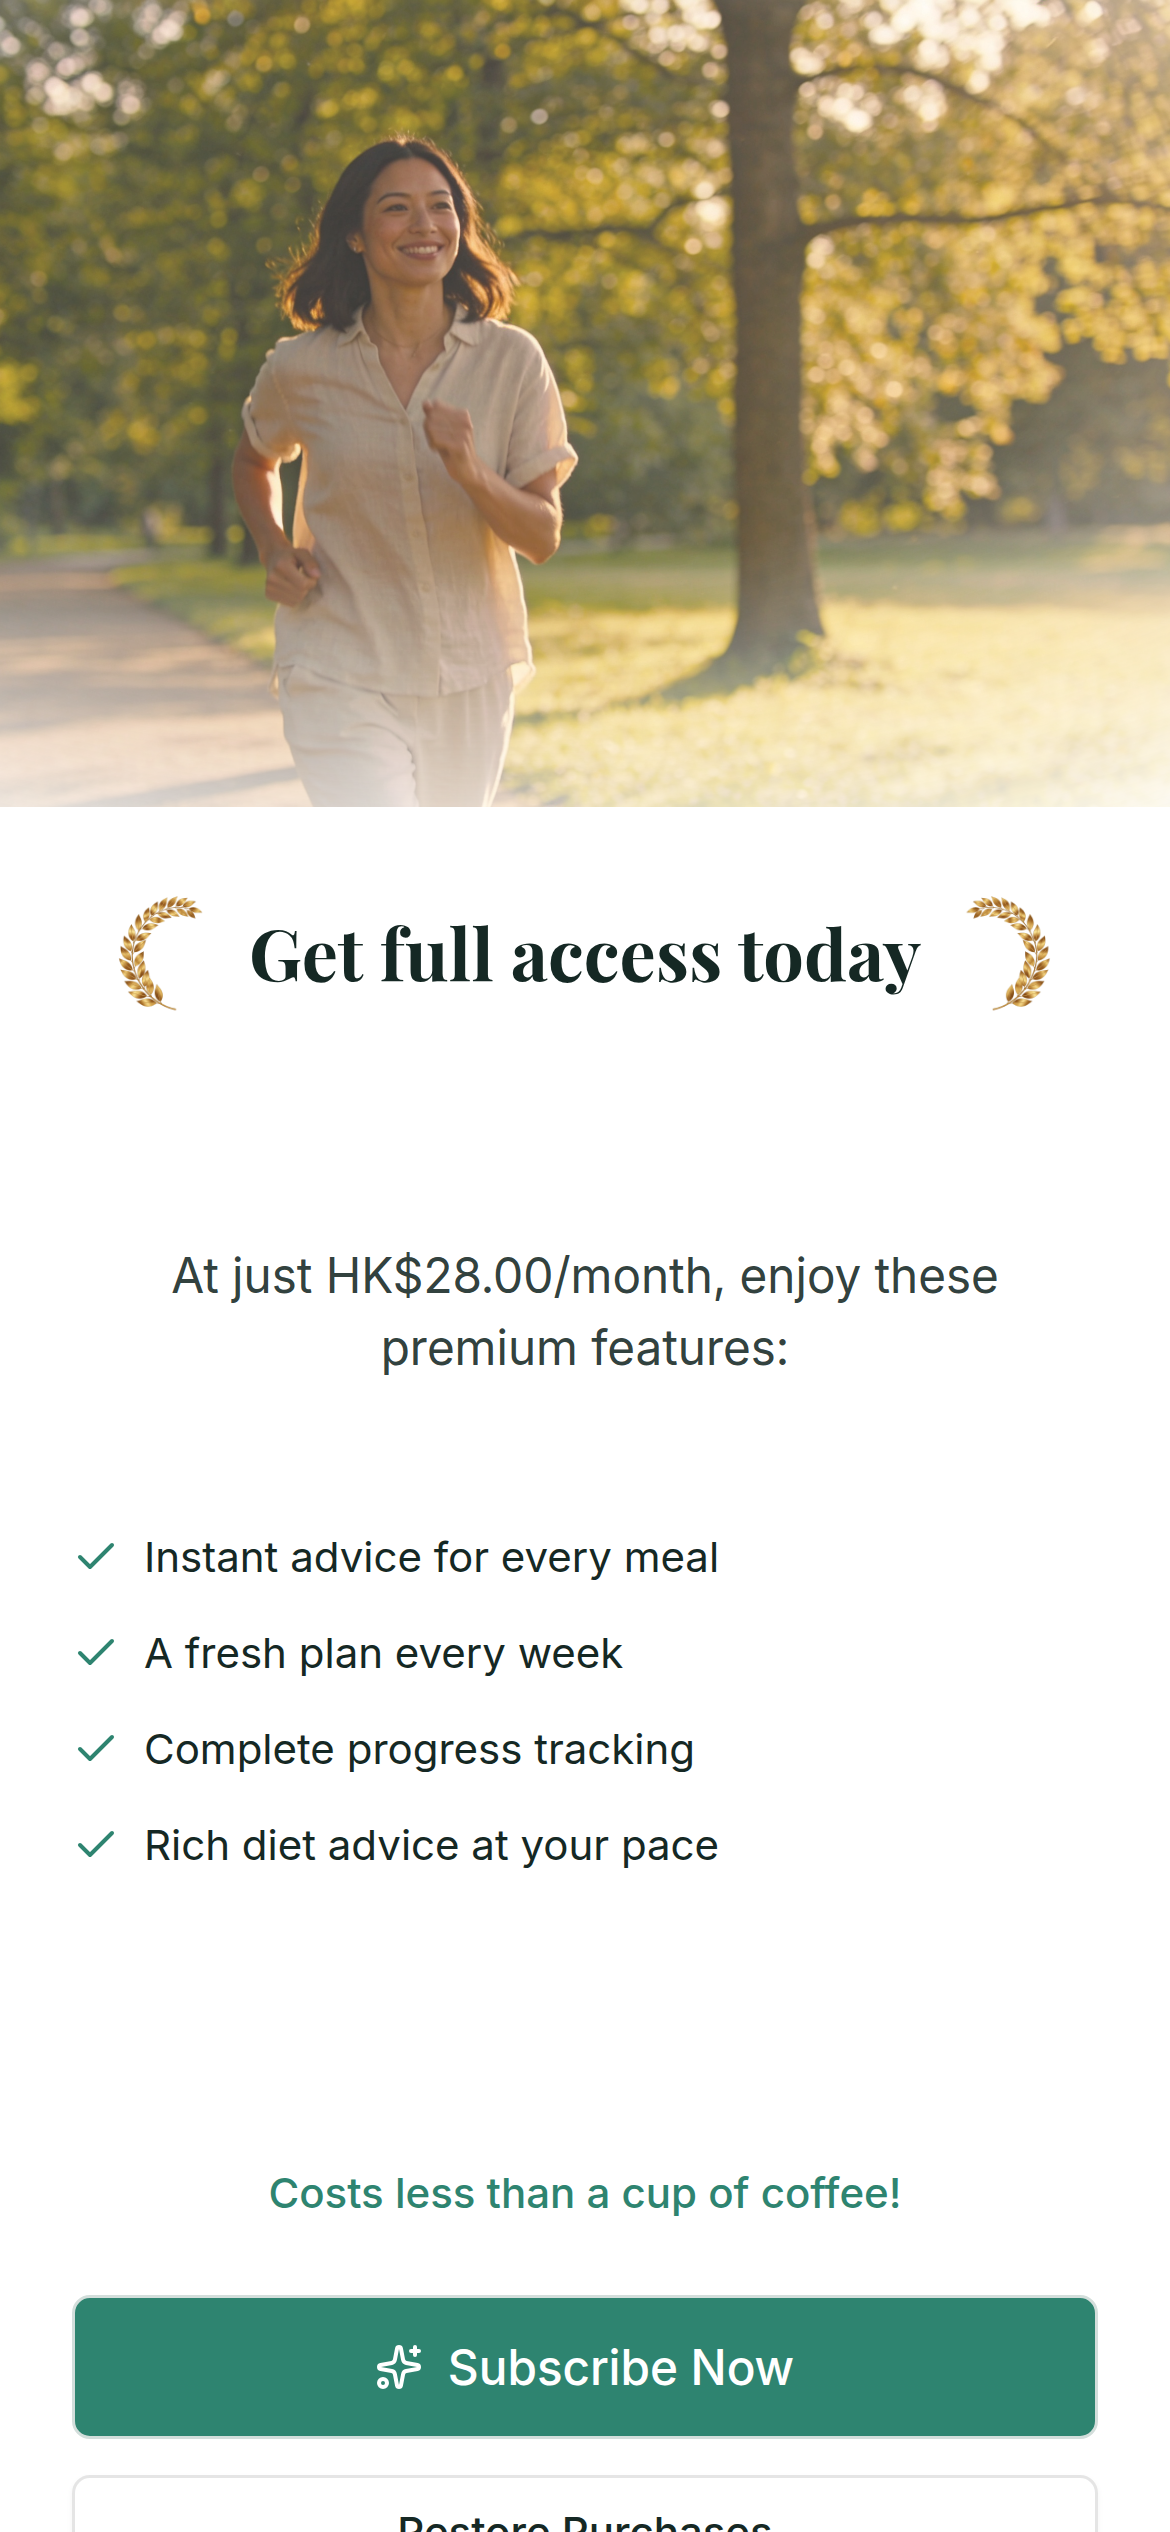
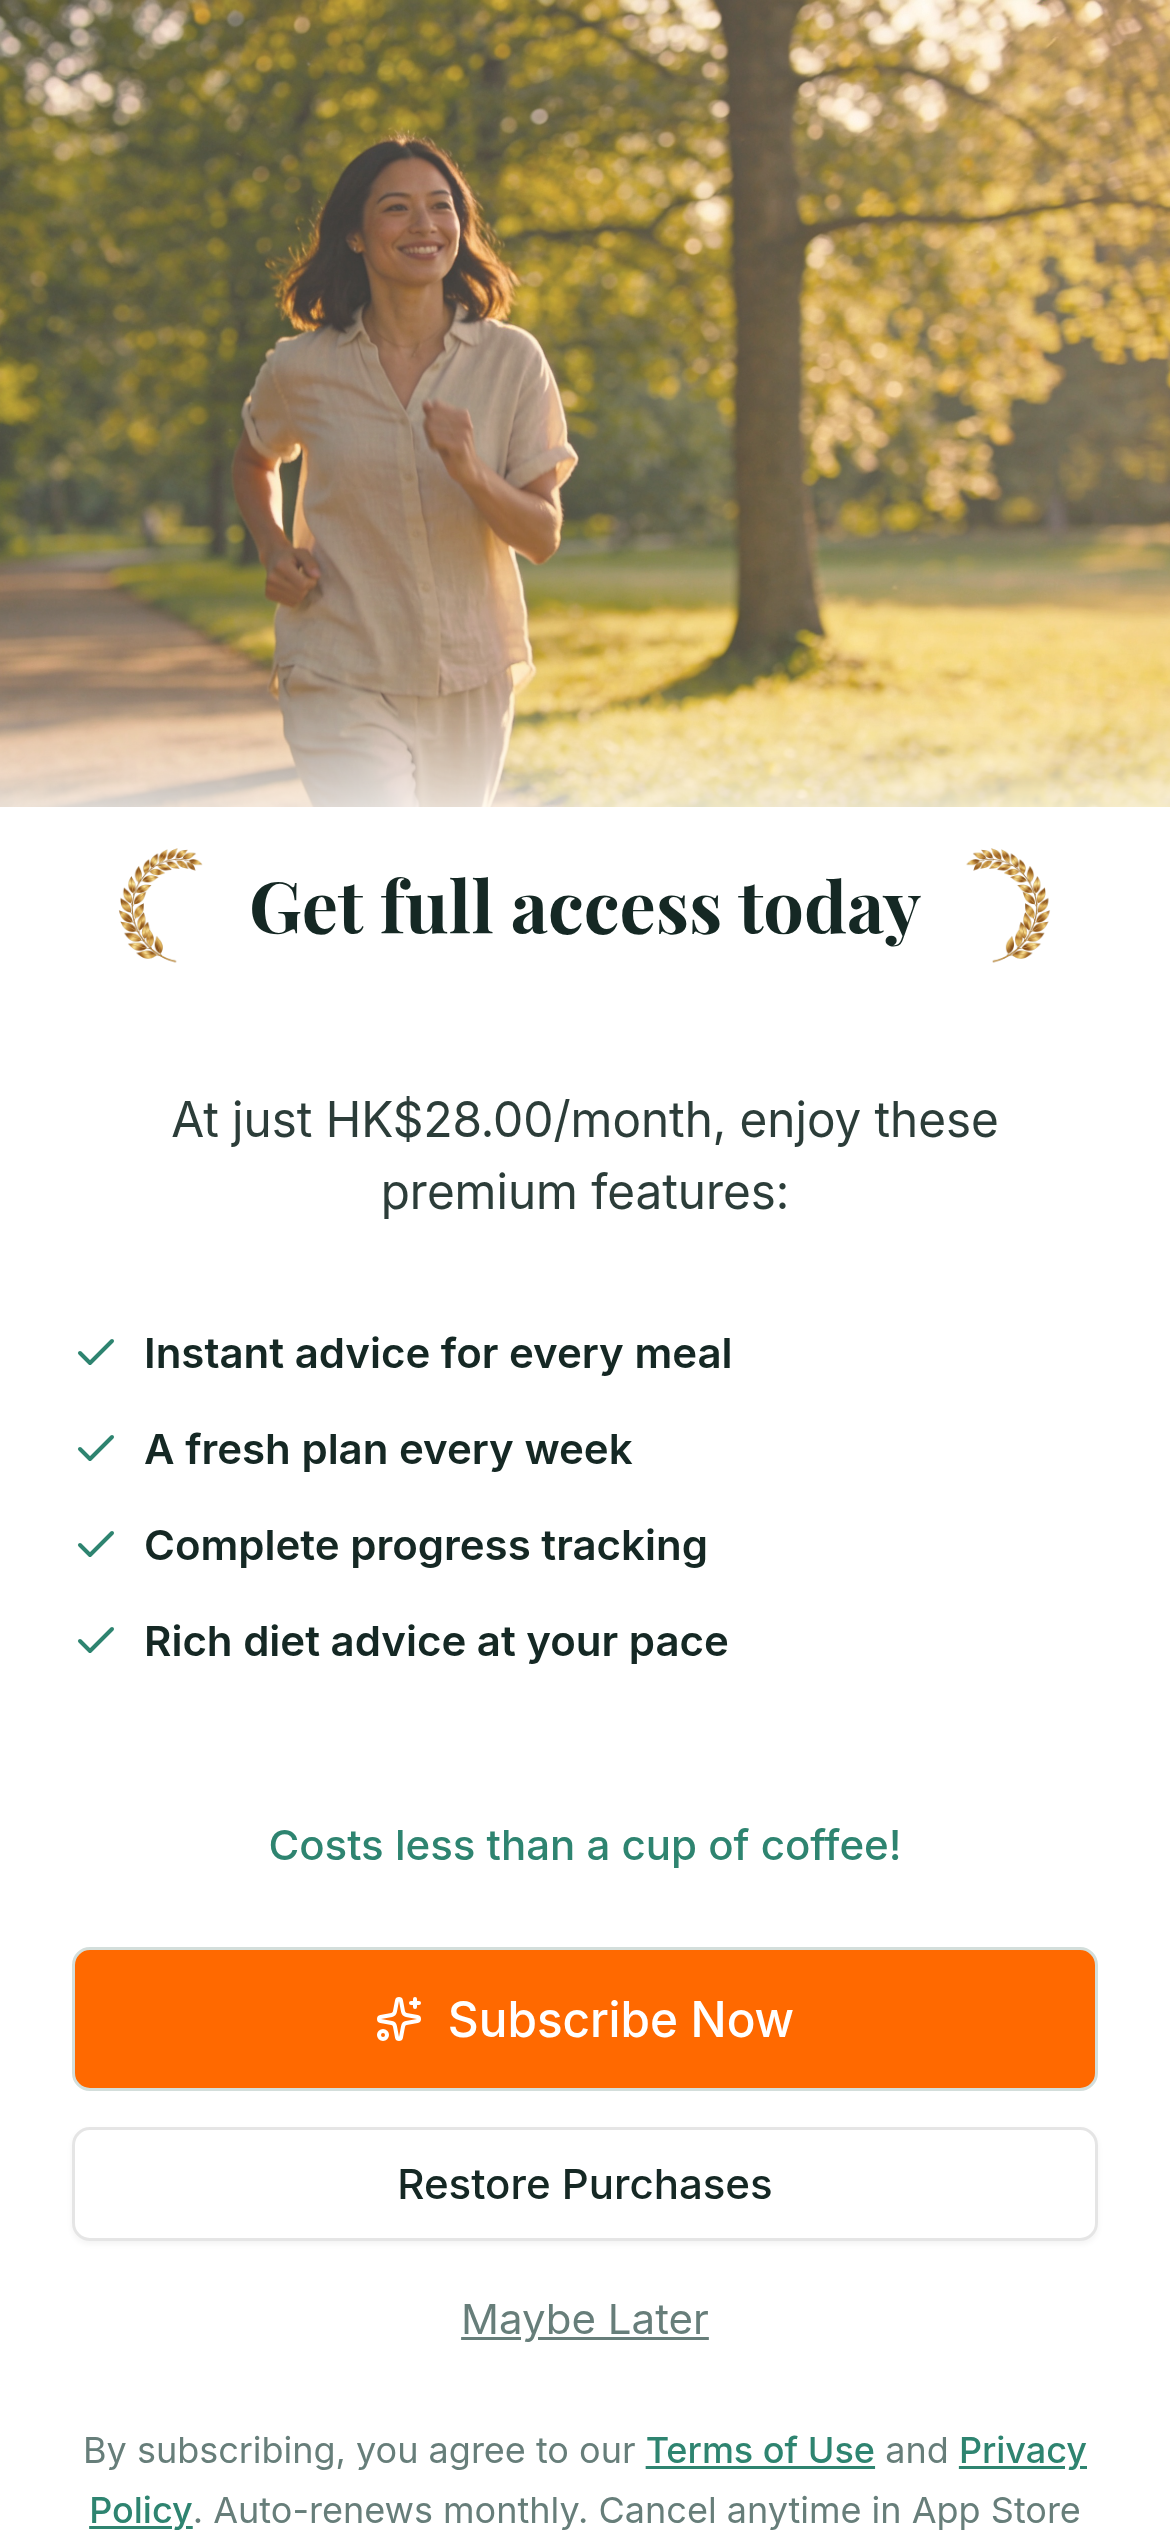
Refine paywall design with tighter spacing and new visual effects
Update paywall modal with adjusted vertical spacing, bolded feature text, a feathered card top effect, and an orange subscribe button.

Replit-Commit-Author: Agent
Replit-Commit-Session-Id: 5fb3db13-5617-42f7-b4ec-a9b90de9063e
Replit-Commit-Checkpoint-Type: full_checkpoint
Replit-Commit-Event-Id: 839a2996-6980-4834-93fd-844d8b398b68
Replit-Commit-Screenshot-Url: https://storage.googleapis.com/screenshot-production-us-central1/5322b358-f4bd-4c78-9be1-d8e103e57e4b/5fb3db13-5617-42f7-b4ec-a9b90de9063e/5LPq0w9
Replit-Helium-Checkpoint-Created: true

diff --git a/client/src/components/paywall-modal.tsx b/client/src/components/paywall-modal.tsx
@@ -121,18 +121,27 @@ export default function PaywallModal({ open, onClose, onPurchaseSuccess, lockApp
               alt=""
               data-testid="paywall-hero-image"
               aria-hidden="true"
-              className="w-[140%] max-w-none object-cover ml-[-20%] mb-6 pointer-events-none select-none"
+              className="w-[140%] max-w-none object-cover ml-[-20%] pointer-events-none select-none"
               style={{
                 aspectRatio: "16 / 9",
                 opacity: 0.8,
-                WebkitMaskImage:
-                  "radial-gradient(ellipse 95% 80% at 50% 35%, #000 45%, rgba(0,0,0,0.6) 70%, transparent 100%)",
-                maskImage:
-                  "radial-gradient(ellipse 95% 80% at 50% 35%, #000 45%, rgba(0,0,0,0.6) 70%, transparent 100%)",
               }}
             />
 
-            <div className="flex items-center justify-center gap-3 w-full">
+            <div
+              className="w-full flex flex-col items-center mt-[-40px] relative z-10 px-6"
+              style={{
+                background: "hsl(var(--popover))",
+                WebkitMaskImage:
+                  "linear-gradient(to bottom, transparent 0px, #000 56px)",
+                maskImage:
+                  "linear-gradient(to bottom, transparent 0px, #000 56px)",
+                marginLeft: "-1.5rem",
+                marginRight: "-1.5rem",
+                width: "calc(100% + 3rem)",
+              }}
+            >
+            <div className="flex items-center justify-center gap-3 w-full pt-12">
               <img
                 src={laurelImg}
                 alt=""
@@ -158,23 +167,23 @@ export default function PaywallModal({ open, onClose, onPurchaseSuccess, lockApp
             </div>
 
             <p
-              className="text-base text-foreground/90 text-center mt-[72px]"
+              className="text-base text-foreground/90 text-center mt-[36px]"
               data-testid="text-paywall-headline"
             >
               {headline}
             </p>
 
-            <div className="w-full flex flex-col gap-3 text-left text-sm mt-12">
+            <div className="w-full flex flex-col gap-3 text-left text-sm mt-8">
               {["feature_plans", "feature_snap", "feature_roadmap", "feature_insights"].map((key) => (
                 <div key={key} className="flex items-start gap-2">
                   <Check className="w-4 h-4 text-primary mt-0.5 shrink-0" />
-                  <span>{t(`paywall.${key}`)}</span>
+                  <span className="font-semibold">{t(`paywall.${key}`)}</span>
                 </div>
               ))}
             </div>
 
             <p
-              className="text-sm font-medium text-primary text-center mt-[96px]"
+              className="text-sm font-medium text-primary text-center mt-[48px]"
               data-testid="text-paywall-cup-of-coffee"
             >
               {t("paywall.cup_of_coffee")}
@@ -189,7 +198,7 @@ export default function PaywallModal({ open, onClose, onPurchaseSuccess, lockApp
             {isNative ? (
               <div className="w-full flex flex-col gap-3 mt-6">
                 <Button
-                  className="w-full h-12 text-base gap-2"
+                  className="w-full h-12 text-base gap-2 bg-orange-500 hover:bg-orange-600 text-white"
                   onClick={handlePurchase}
                   disabled={purchasing || restoring}
                   data-testid="button-paywall-subscribe"
@@ -263,6 +272,7 @@ export default function PaywallModal({ open, onClose, onPurchaseSuccess, lockApp
                 }}
               />
             </p>
+            </div>
           </div>
         </motion.div>
       )}
